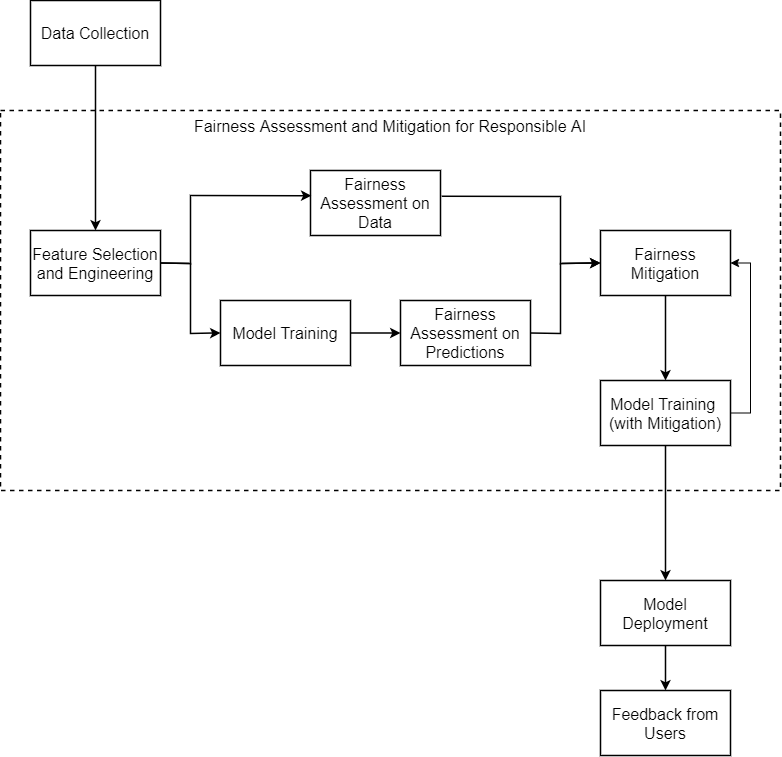
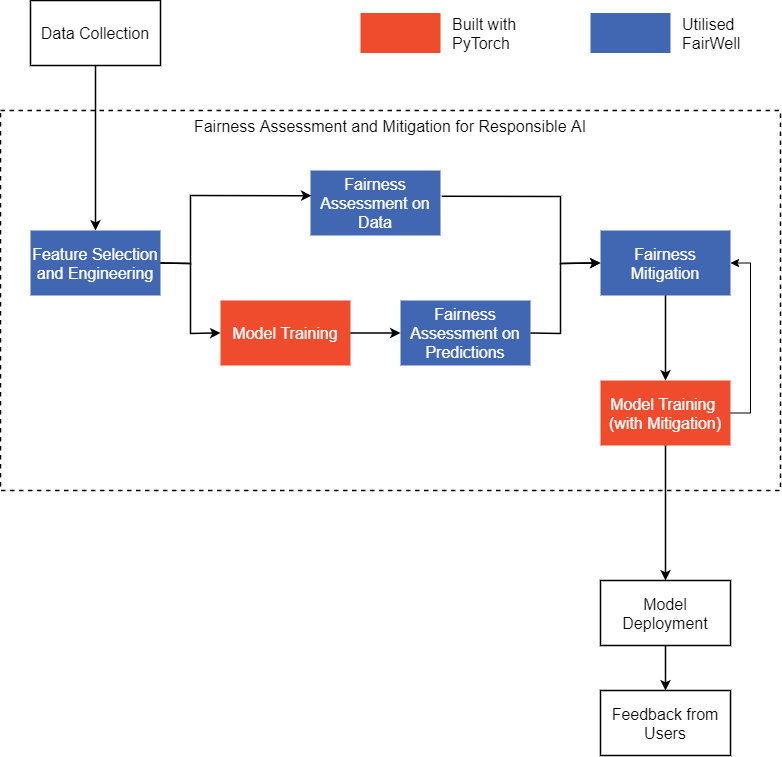
Update README

diff --git a/README.md b/README.md
@@ -2,13 +2,15 @@
 
 ## Introduction
 
-FairWell is a Responsible AI tool developed using Streamlit. In this report, research on Responsible AI is presented, followed by elaborating on the FairWell tool. Lastly, a use case on how Responsible AI can be used to evaluate a model is shown, where the New York City (NYC) Subway dataset is used to model a binary classification problem on high/low traffic.
+FairWell is a Responsible AI tool developed using Streamlit. The aim is to address model biasness on specific groups of people, allowing data scientists to evaluate their dataset and model predictions, and take steps toward making their datasets more inclusive and their models less biased. The tool allows users to detect fairness issues in both datasets and models, and in turn, get inspiration on various mitigation approaches through mitigation recommendations.
+
+In this report, research on Responsible AI is presented, followed by elaborating on the FairWell tool. Lastly, a use case on how Responsible AI can be used to evaluate a model is shown, where the New York City (NYC) Subway dataset is used to model a binary classification problem on high/low traffic.
 
 ## Responsible AI Research
 
 The problem of defining and addressing fairness has been a topic of increasing importance in the recent years. Especially with work surrounding machine learning. Multiple definitions of fairness have been raised, each having their own pros and cons. This work does not aim to propose a single notion of fairness but rather we aim to (i) provide tools on how to measure and assess fairness and (ii) how to mitigate bias in models where necessary. Our work can be summarised as below:
 
-1. Fairness assesment<sup>1, 12, 13</sup>
+1. Fairness assessment<sup>1, 12, 13</sup>
    1. On data
    2. On model predictions
 2. Bias mitigation<sup>12</sup>
@@ -56,6 +58,10 @@ As Facebook progresses in building Responsible AI, they are guided by these key 
 
 ## FairWell
 
+FairWell automates areas in the machine pipeline where fairness assessment and mitigation can be automated, to reduce friction faced by data scientists when developing Responsible AI models.
+
+![](./images/FairWell%20Focus%20on%20Pipeline.png)
+
 ### Feature Explorer
 
 The feature explorer page allows users to quickly view the distributions of their dataset, as well as the summary statistics for each feature. An algorithm is created to quickly infer the data types of each feature, categorising them into either numerical or categorical. Based on the data type, a histogram or bar chart will be shown for numerical or categorical data type respectively.
@@ -88,6 +94,8 @@ A scatter plot that plots the relationship between the selected fairness metric 
 Lastly, the page will compare the aforementioned fairness metrics of each feature selected for fairness assessment, providing users with useful mitigation approaches they can take towards fairer model development. After applying fairness mitigation, users can revisit this page with a new dataset and model for comparison against their previous iterations.
 
 ## Dataset: New York City (NYC) Subway Traffic
+
+Recognising the need for a demo, the New York City Subway Dataset which contains both neighbourhood census data and subway traffic data is used as an example. A PyTorch model is built using the dataset, then assessing the fairness the data and model predictions were done, followed by iterating through various mitigation approaches to build fairer models.
 
 The dataset we selected consists of subway traffic in NYC, along with neighborhood census data of the city. It is hosted on Kaggle by Edden, who has performed preprocessing steps to convert the raw data provided by The Metropolitan Transportation Authority (MTA), North America's largest transportation network. The census data is from NYU Furman Center's New York City Neighborhood Data Profiles and the neighborhood data is from University of Berkeley GeoData Library.
 
@@ -183,7 +191,7 @@ For example, "Unemployment Rate".
 
 
 ### Fairness Mitigation
-Based on our [Responsible AI Research](#responsible-ai-research), we have identified 2 approaches in mitigating bias, pre-processing the dataset and in-processing where we impose a fairness loss constraint during model training. 
+Based on our [Responsible AI Research](#responsible-ai-research), we have identified two approaches in mitigating bias, pre-processing the dataset and in-processing where we impose a fairness loss constraint during model training. 
 
 #### Pre-processing
 1. Supression<sup>17</sup>
@@ -232,6 +240,7 @@ Based on our [Responsible AI Research](#responsible-ai-research), we have identi
 15. [Pareto-Efficient Fairness for Skewed Subgroup Data](https://aiforsocialgood.github.io/icml2019/accepted/track1/pdfs/24_aisg_icml2019.pdf)
 16. [The Price of Fairness](https://core.ac.uk/download/pdf/4429576.pdf)
 17. [Data preprocessing techniques for classification without discrimination](https://link.springer.com/article/10.1007/s10115-011-0463-8)
+
 ## Acknowledgements
 
 Thanks to our friends at Mastercard (Apurva, Bharathi, Hui Chiang, Idaly and Louis) for their advice and guidance on AI fairness.
